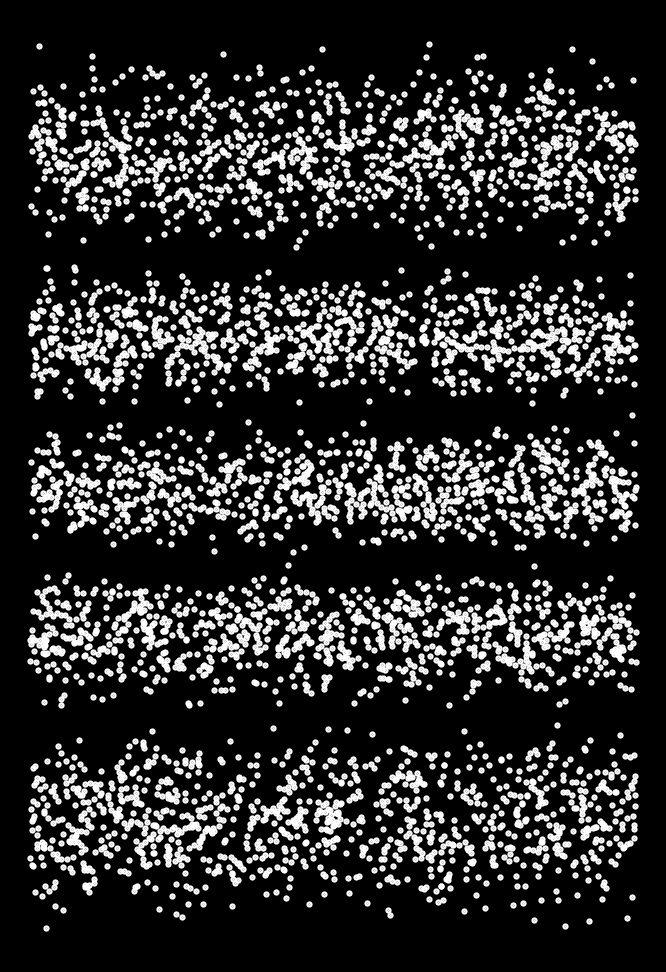
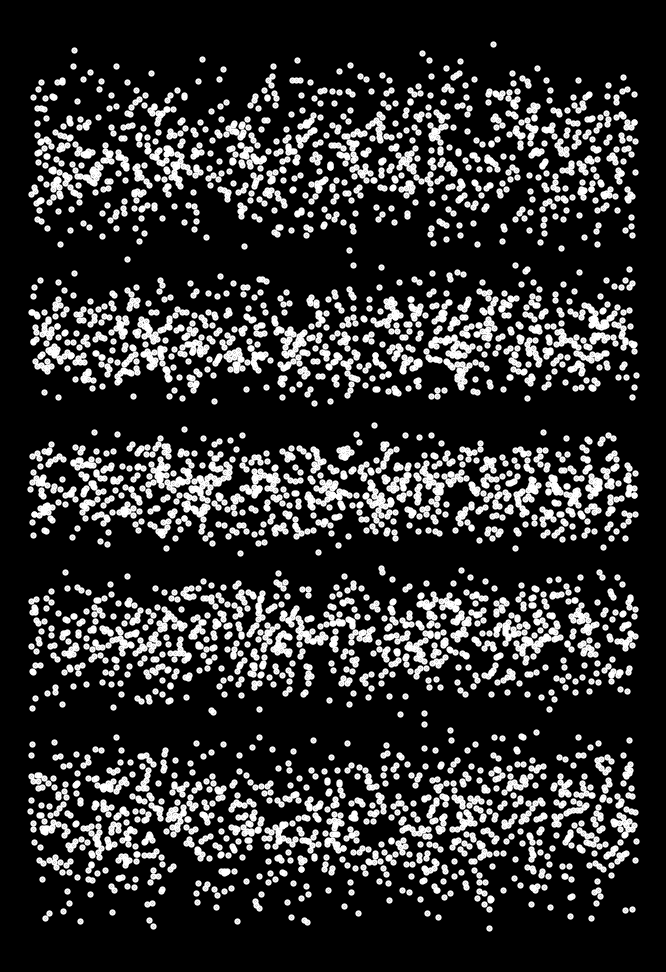
Film funksjonalitet

diff --git a/viPrøverIgjen/flereVariablerAvGangen/flereVariablerAvGangen.py b/viPrøverIgjen/flereVariablerAvGangen/flereVariablerAvGangen.py
@@ -15,8 +15,13 @@ import matplotlib.pyplot as plt
 import matplotlib.cm as cm
 from scipy.interpolate import CubicSpline
 import os
+from cubicBezier import yValues
 
 plt.ioff()
+
+saveFilmSequence = False
+deleteFilmSequence = True
+filmSequenceNumImages = 240
 
 # Inputs
 wl = 0.5
@@ -33,8 +38,8 @@ imageIterator = 1
 
 fig_dpi = 300
 
-def setStringFile(figNum):
-    return './' + str(imageIterator) + '/fig' + str(figNum) + '/' + 'fig.png'
+def setStringFile(figNum, iterator=""):
+    return './' + str(imageIterator) + '/fig' + str(figNum) + '/' + 'fig'+ iterator +'.png'
 
 
 # Funksjon for Intensitetensitet
@@ -259,31 +264,81 @@ for waveLength in lambdaArray:
 
         # FIGURE 4
 
+        yArray = yValues(filmSequenceNumImages)
+        iterator = 1
+        xListe = []
+        yListe = []
+
+        if saveFilmSequence:
+
+            for y in yArray:
+                num = np.random.rand(y)
+
+                xVerdier = np.random.rand(y)
+                for xVerdi in xVerdier:
+                    xListe.append(xVerdi)
+                
+
+                yVerdier = Konvertere(num)
+                for yVerdi in yVerdier:
+                    yListe.append(yVerdi)
 
 
+                plt.rcParams['figure.subplot.bottom'] = 0
+                plt.rcParams['figure.subplot.top'] = 1
+                plt.rcParams['figure.subplot.left'] = 0
+                plt.rcParams['figure.subplot.right'] = 1
+                fig = plt.figure(4, figsize=(666/fig_dpi, 972.5/fig_dpi), dpi=fig_dpi)
+                plt.style.use('dark_background')
+                # plt.grid(visible = False)
+                # x skal her være et tilfeldig tall
+                plt.plot(xListe, yListe, 'w.', markersize=1)
+                # plt.show()
+                strFile = setStringFile(4, str(iterator))
+                if os.path.isfile(strFile):
+                    os.remove(strFile)
+                plt.axis('off')
+                plt.xticks([])  
+                plt.yticks([]) 
+                plt.savefig(strFile)
+                plt.clf()
+                plt.close(fig)
 
+                plt.style.use('default')
+                iterator += 1
+                # funksjon(x_verdi) -> y verdi
+                # Konvertere
+            imageIterator += 1
+        
+        if saveFilmSequence == False:
+            plt.rcParams['figure.subplot.bottom'] = 0
+            plt.rcParams['figure.subplot.top'] = 1
+            plt.rcParams['figure.subplot.left'] = 0
+            plt.rcParams['figure.subplot.right'] = 1
+            fig = plt.figure(4, figsize=(666/fig_dpi, 972.5/fig_dpi), dpi=fig_dpi)
+            plt.style.use('dark_background')
+            # plt.grid(visible = False)
+            # x skal her være et tilfeldig tall
+            plt.plot(np.random.rand(5000), Konvertere(num), 'w.', markersize=1)
+            # plt.show()
+            strFile = setStringFile(4)
+            if os.path.isfile(strFile):
+                os.remove(strFile)
+            plt.axis('off')
+            plt.xticks([])  
+            plt.yticks([]) 
+            plt.savefig(strFile)
+            plt.clf()
+            plt.close(fig)
 
-        plt.rcParams['figure.subplot.bottom'] = 0
-        plt.rcParams['figure.subplot.top'] = 1
-        plt.rcParams['figure.subplot.left'] = 0
-        plt.rcParams['figure.subplot.right'] = 1
-        fig = plt.figure(4, figsize=(666/fig_dpi, 972.5/fig_dpi), dpi=fig_dpi)
-        plt.style.use('dark_background')
-        # plt.grid(visible = False)
-        # x skal her være et tilfeldig tall
-        plt.plot(np.random.rand(5000), Konvertere(num), 'w.', markersize=1)
-        # plt.show()
-        strFile = setStringFile(4)
-        if os.path.isfile(strFile):
-            os.remove(strFile)
-        plt.axis('off')
-        plt.xticks([])  
-        plt.yticks([]) 
-        plt.savefig(strFile)
-        plt.clf()
-        plt.close(fig)
+            plt.style.use('default')
+            # funksjon(x_verdi) -> y verdi
+            # Konvertere
+            imageIterator += 1
+        
+        if deleteFilmSequence:
+            for i in range(filmSequenceNumImages + 1):
+                strFile = setStringFile(4, str(i))
+                if os.path.isfile(strFile):
+                    os.remove(strFile)
 
-        plt.style.use('default')
-        # funksjon(x_verdi) -> y verdi
-        # Konvertere
-        imageIterator += 1
